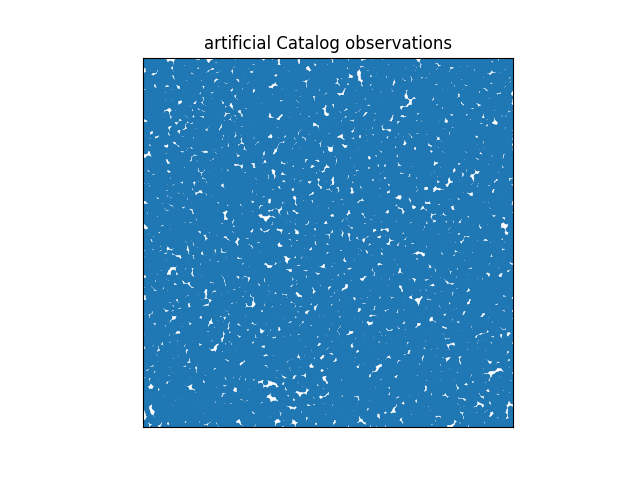
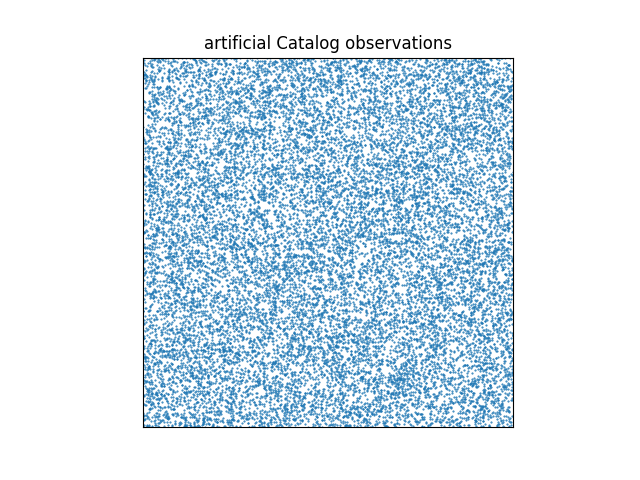
progress

diff --git a/source/syntheticdata.py b/source/syntheticdata.py
@@ -58,8 +58,8 @@ def checkerboard(nn, ncheck, a, b):
 
 def experiment_1(
     EstimatorClass=pgd.PolyaGammaDensity2D, 
-    n=64, nn=20, a=4.5, b=5.5, rho=16, v2=0.1, lam=10, nmax_mix=60):
-    # n=64, nn=20, a=3.5, b=6.5, rho=16, v2=0.1, lam=10, nmax_mix=60):
+    # n=64, nn=20, a=4.5, b=5.5, rho=16, v2=0.1, lam=10, nmax_mix=60):
+    n=64, nn=20, a=3.5, b=6.5, rho=16, v2=0.1, lam=10, nmax_mix=60):
 
 
 
@@ -108,7 +108,7 @@ def experiment_1(
     plt.yticks([])
     plt.gca().margins(0)
     x, y = estim.random_catalog_from_nobs(estim.nobs)
-    plt.plot(x, y, '.')
+    plt.plot(x, y, '.', markersize=1)
     print('...done')
 
     #plt.figure()
